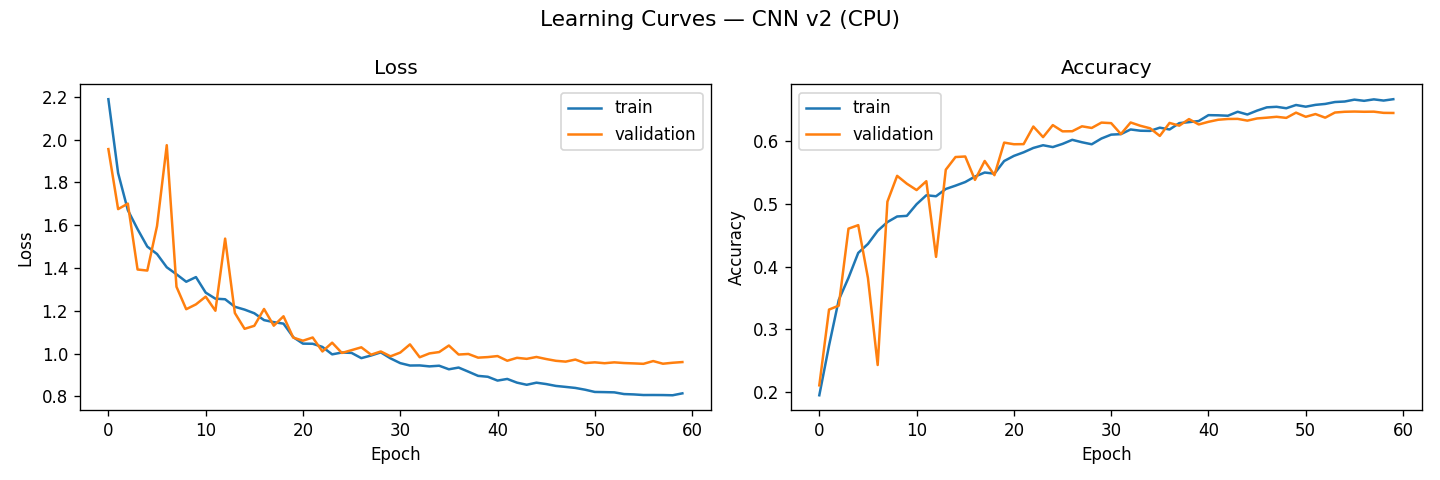
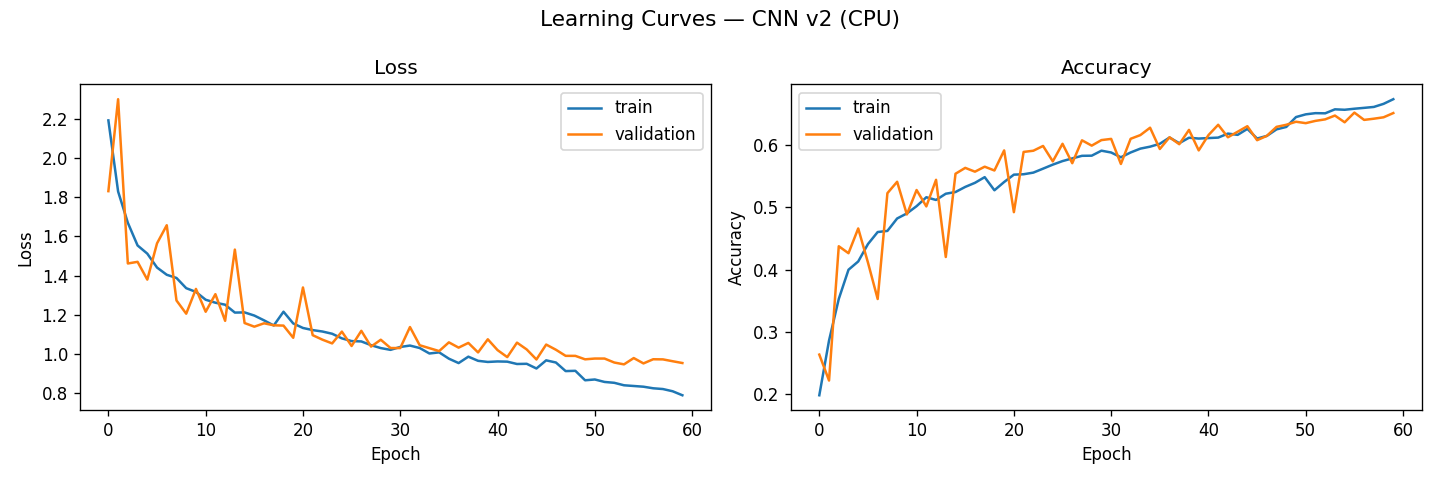
fix the files and make the code more clean

diff --git a/scripts/train.py b/scripts/train.py
@@ -106,9 +106,7 @@ model.compile(
     metrics=["accuracy"],
 )
 
-# ===============================================================
-# 9. Callbacks
-# ===============================================================
+
 early_stop = EarlyStopping(
     monitor="val_loss",
     patience=10,              
@@ -137,9 +135,7 @@ tensorboard_cb = TensorBoard(
 
 print(f"\nTensorBoard: tensorboard --logdir results/logs")
 
-# ===============================================================
-# 10. Training 
-# ===============================================================
+
 print("\n==> Training started...")
 history = model.fit(
     datagen.flow(X_train, y_train, batch_size=32),
@@ -150,25 +146,19 @@ history = model.fit(
     verbose=1,
 )
 
-# ===============================================================
-# 11. Final Evaluation
-# ===============================================================
+
 print("\n==> Evaluating...")
 loss, acc = model.evaluate(X_test, y_test, verbose=1)
 print(f"\nFinal Accuracy : {acc*100:.2f}%")
 print(f"   Final Loss     : {loss:.4f}")
 
-# ===============================================================
-# 12. Save Model
-# ===============================================================
+
 os.makedirs(os.path.join("results", "model"), exist_ok=True)
 MODEL_PATH = os.path.join("results", "model", "final_emotion_model.keras")
 model.save(MODEL_PATH)
 print(f"\nModel saved → {MODEL_PATH}")
 
-# ===============================================================
-# 13. Save Architecture
-# ===============================================================
+
 ARCH_PATH = os.path.join("results", "model", "final_emotion_model_arch.txt")
 with open(ARCH_PATH, "w") as f:
     f.write("=== CNN v2 Architecture (CPU-friendly, target 60%+) ===\n\n")
@@ -192,9 +182,7 @@ with open(ARCH_PATH, "w") as f:
     f.write(f"Final test accuracy : {acc:.4f}\n")
 print(f"Architecture saved → {ARCH_PATH}")
 
-# ===============================================================
-# 14. Learning Curves
-# ===============================================================
+
 CURVES_PATH = os.path.join("results", "model", "learning_curves.png")
 plot_validation_loss_accuracy(history, CURVES_PATH)
 

diff --git a/scripts/predict_live_stream.py b/scripts/predict_live_stream.py
@@ -16,7 +16,6 @@ face_cascade = cv2.CascadeClassifier(
     cv2.data.haarcascades + "haarcascade_frontalface_default.xml"
 )
 
-# Webcam d'abord ; fallback sur la video enregistree si indispo (sujet l. 67)
 cap = cv2.VideoCapture(0)
 if not cap.isOpened():
     print(f"Webcam unavailable, falling back to {FALLBACK_VIDEO}", file=sys.stderr)
@@ -28,10 +27,10 @@ if not cap.isOpened():
 print("Reading video stream ...")
 print()
 
-last_pred = 0.0           # >=1 prediction/s (sujet l. 67)
-last_label = None         # cache pour afficher entre 2 inferences
+last_pred = 0.0          
+last_label = None        
 last_confidence = 0
-last_box = None           # (x, y, w, h) du dernier visage detecte
+last_box = None        
 
 try:
     while True:
@@ -42,7 +41,6 @@ try:
         gray = cv2.cvtColor(frame, cv2.COLOR_BGR2GRAY)
         faces = face_cascade.detectMultiScale(gray, scaleFactor=1.3, minNeighbors=5)
 
-        # ----- Inference cadencee a 1/s -----
         now = time.monotonic()
         if now - last_pred >= 1.0:
             last_pred = now
@@ -69,7 +67,6 @@ try:
                 print(f"{ts}s : {last_label} , {last_confidence}%")
                 print()
 
-        # ----- Affichage fenetre a chaque frame (fluide) -----
         if last_box is not None and last_label is not None:
             x, y, w, h = last_box
             cv2.rectangle(frame, (x, y), (x + w, y + h), (0, 255, 0), 2)

diff --git a/README.md b/README.md
@@ -175,11 +175,6 @@ keras==3.12.2
 python ./scripts/train.py
 ```
 
-**Train the transfer-learning variant (optional):**
-```bash
-python ./scripts/train_pretrained.py
-```
-
 **Evaluate on the test set:**
 ```bash
 python ./scripts/predict.py
